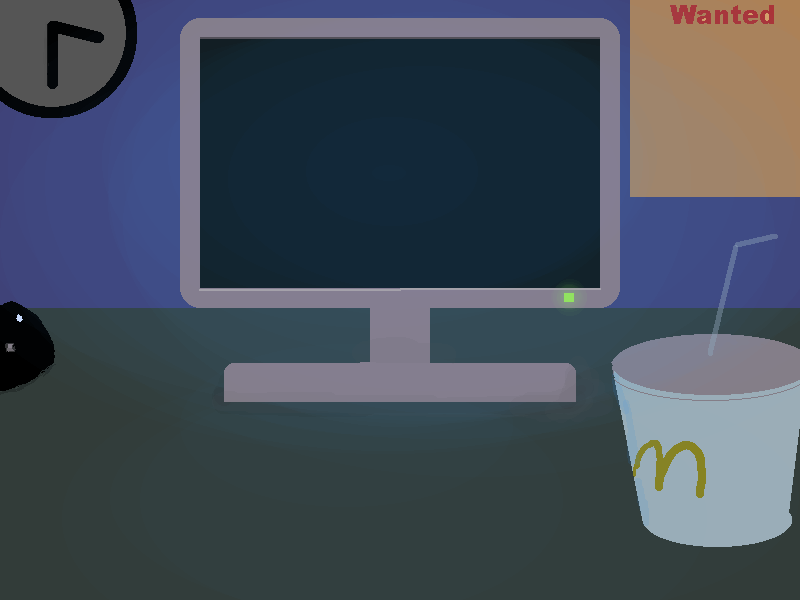
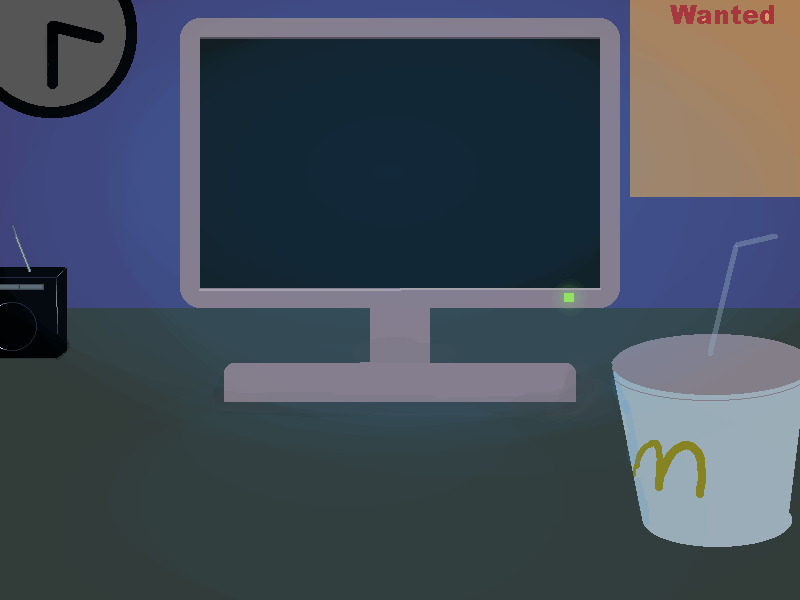
added radio and began on tutorial

Changed region(s): [[0.0, 0.42, 0.0938, 0.66]]

diff --git a/binder.js b/binder.js
@@ -97,12 +97,13 @@ class Binder{
 class Poster{
 	constructor(people){
 		this.rects = [[650, 50, 50, 50], [650, 100, 50, 50], [650, 150, 50, 50], [650, 200, 50, 50]]; //[628, 0, 172, 197] poster size
-		this.people = people.splice(0, 4); // 4 is max
+		this.people = people.filter(per => per.arrestable == true); // 4 is max
 	}
 	draw(){
-		for(var x = 0; x < this.people.length - 1; x++){
-			this.people[x].drawProfile(this.rects[x]);
+		if(this.people.length > 0){
+			for(var x = 0; x < this.people.length - 1; x++){
+				this.people[x].drawProfile(this.rects[x]);
+			}
 		}
-
 	}
 }

diff --git a/tutorial.js b/tutorial.js
@@ -1,0 +1,24 @@
+
+var bubbleSprite = new spriteSheet("assets/bubble.png",800,600,25,0,0,800,600)
+
+class Tutorial{
+	constructor(){
+		this.state = this.intro
+		this.texts = [""];
+	}
+	createBubble(){
+
+	}
+	removeBubble(){
+
+	}
+	execute(){
+		this.drawBubble();
+		this.state();
+	}
+	drawBubble(){
+		bubbleSprite.draw()
+	}
+	intro(){
+	}
+}

diff --git a/main.js b/main.js
@@ -15,6 +15,8 @@ var binder = new Binder(people);
 
 var poster = new Poster(people);
 
+var tutorial = new Tutorial();
+
 var deskImg = new image("assets/monitor.png");
 
 function drawGame(){
@@ -27,6 +29,7 @@ function drawGame(){
             x.drawPerson();
         }
     }
+    tutorial.execute();
 }
 
 function drawMenu(){
